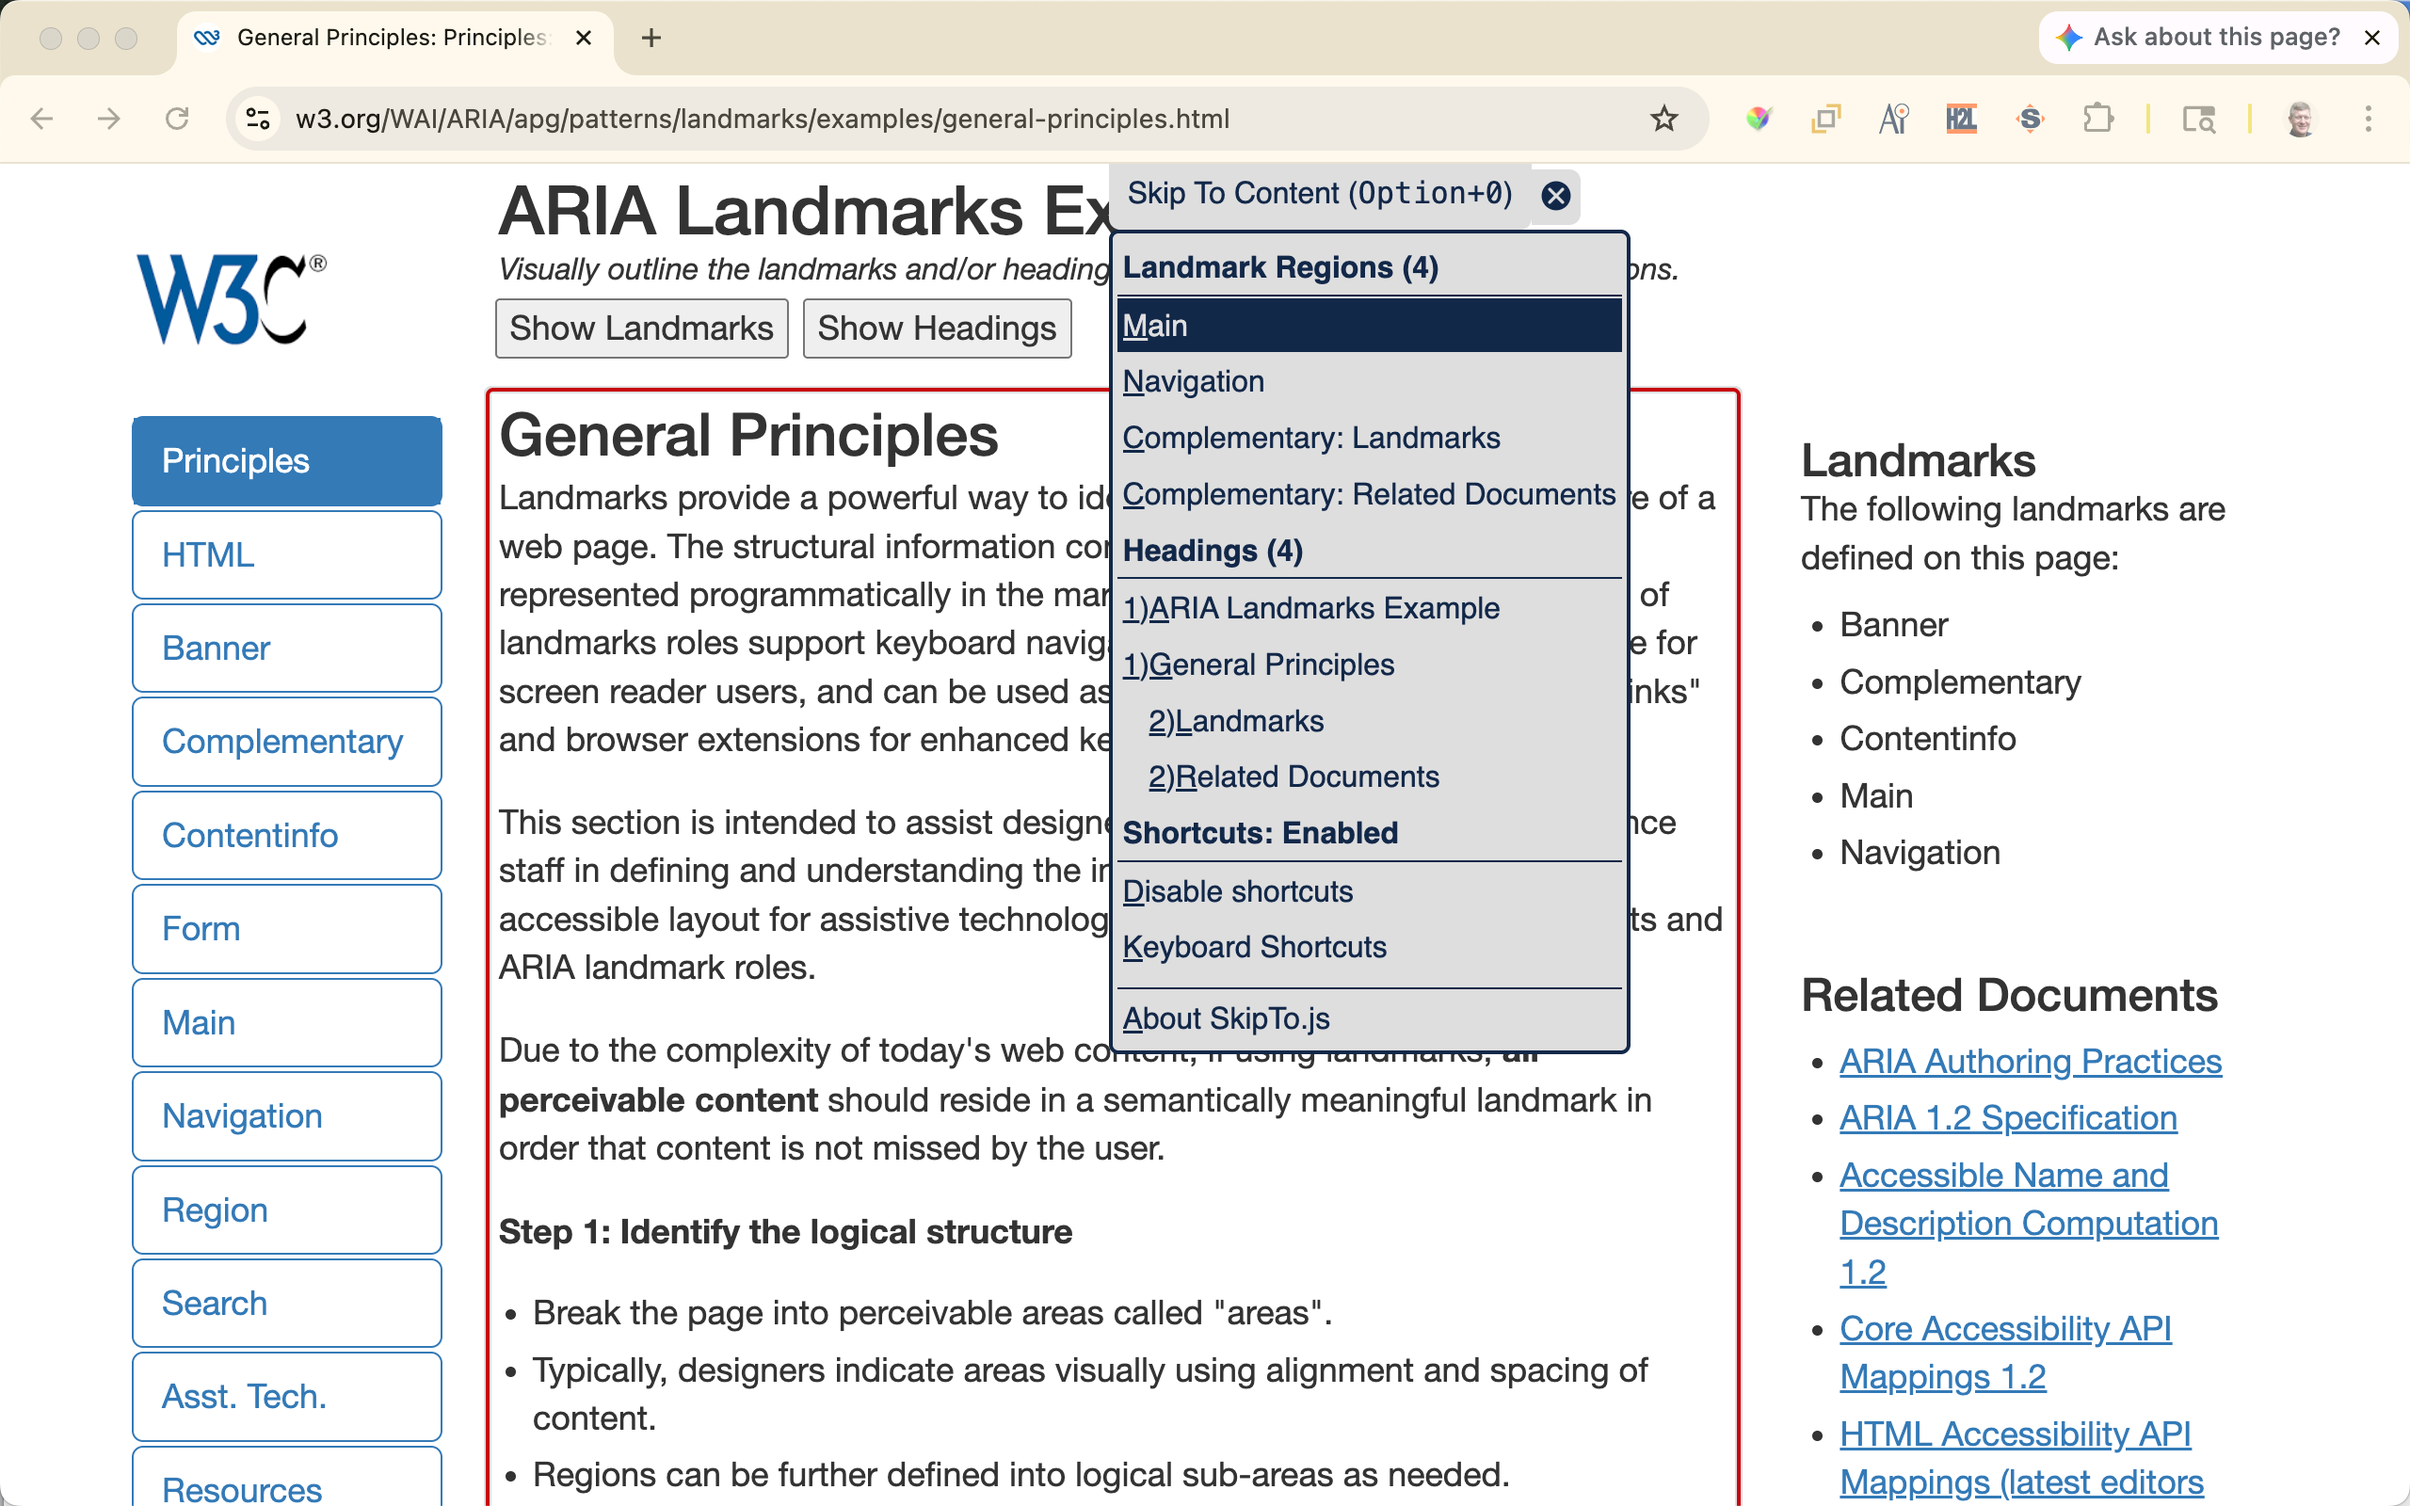
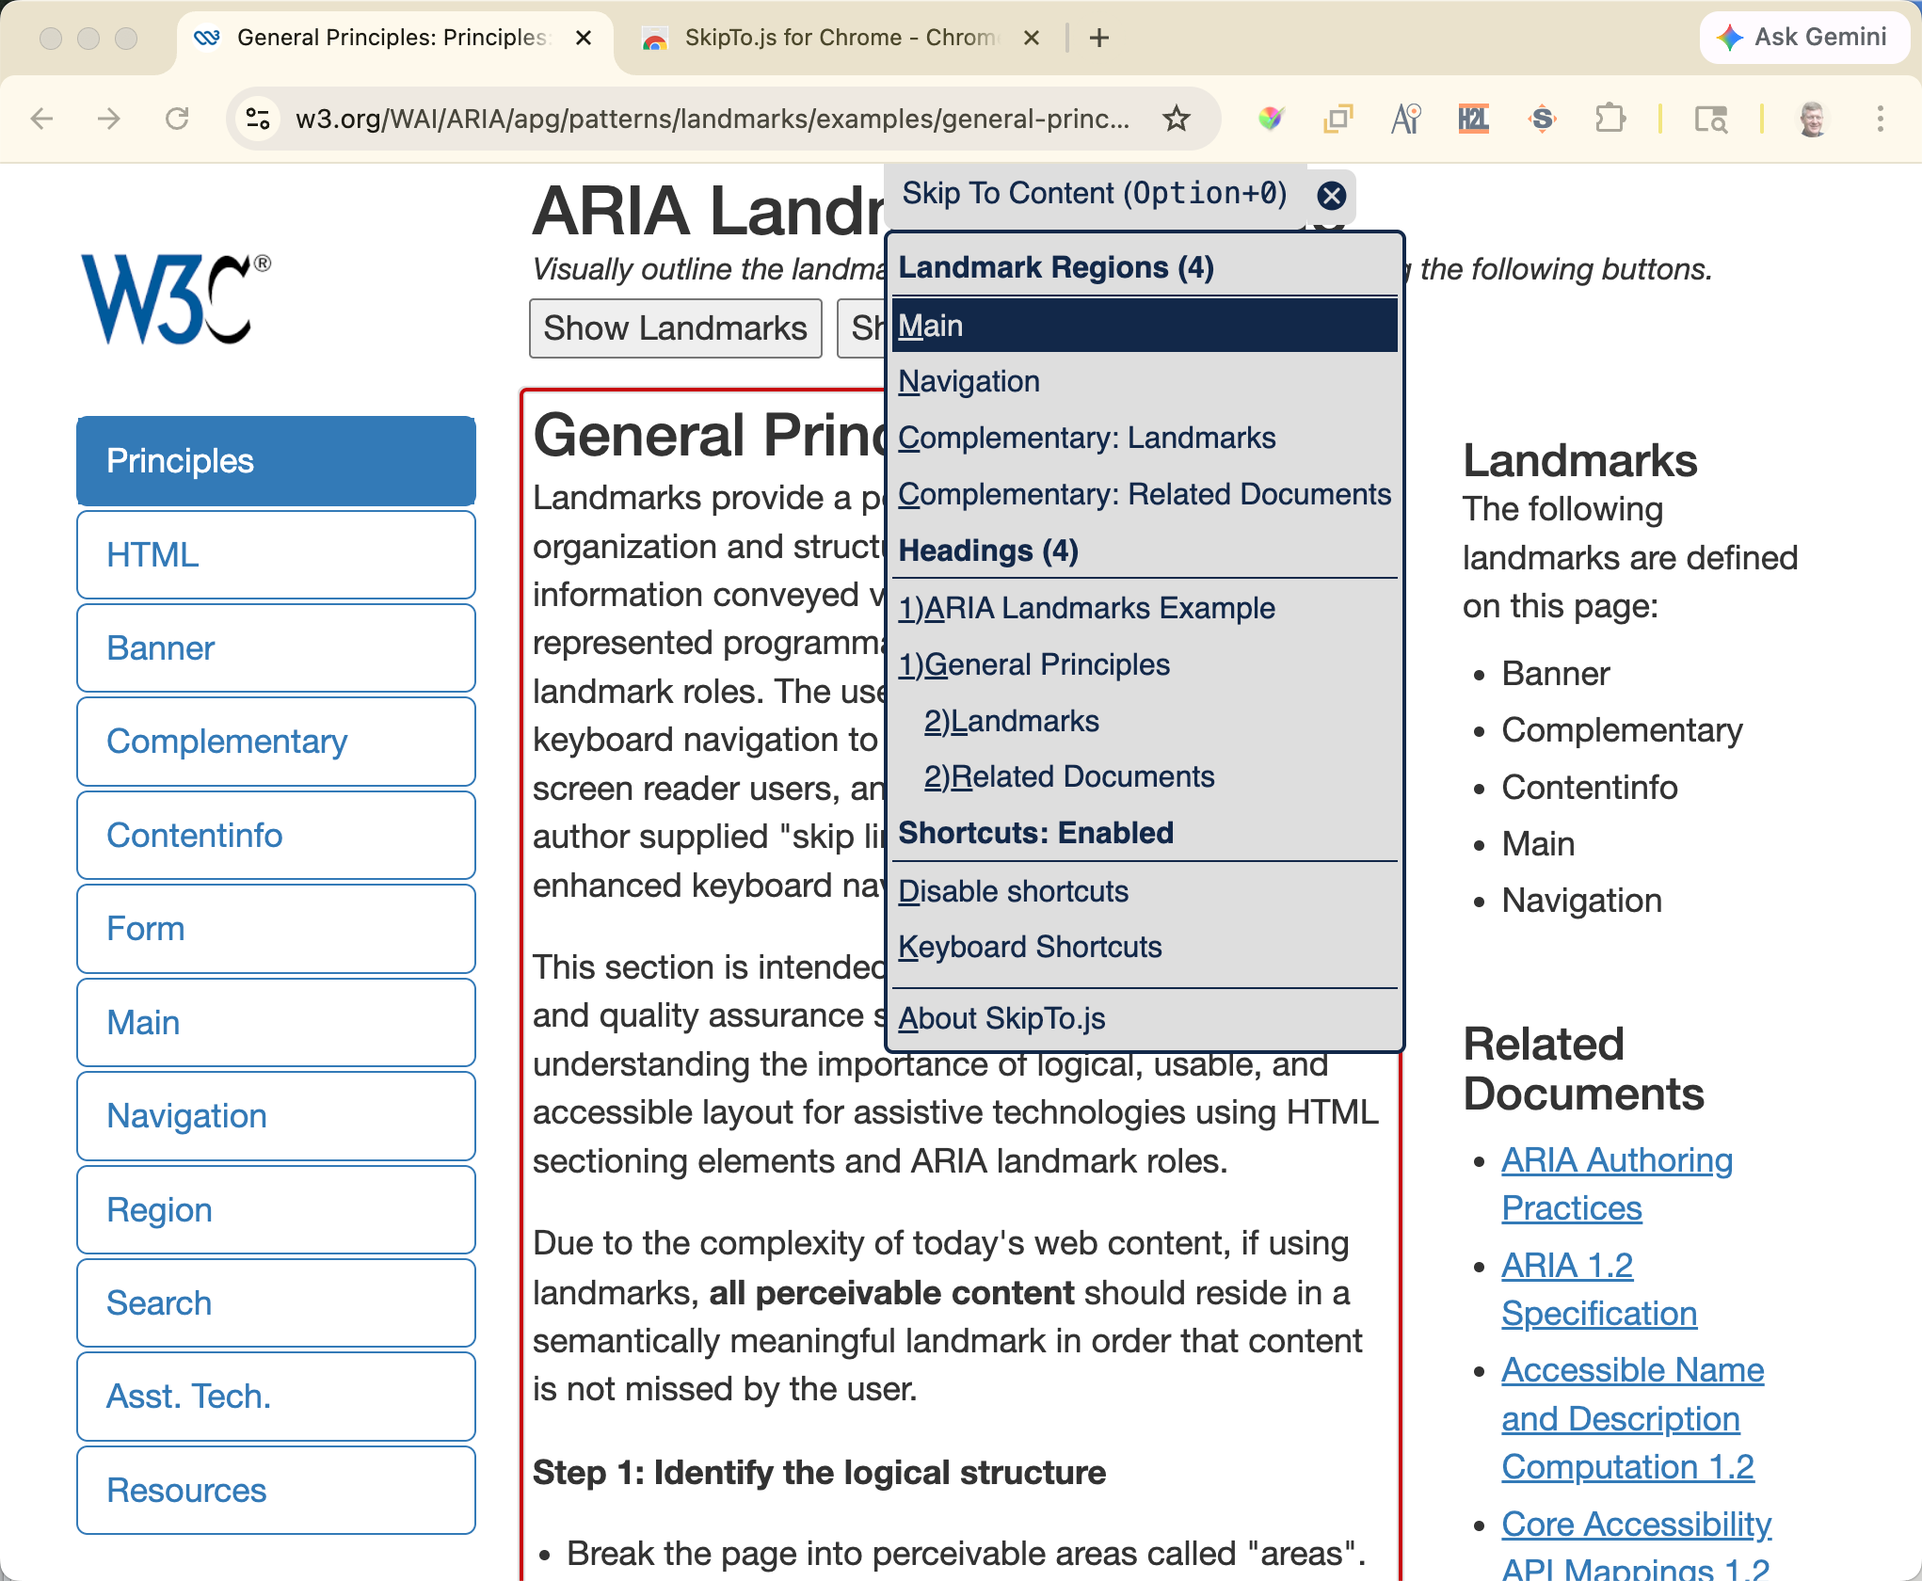
chore: Update branch with latest `update-aside-landmarks` changes and submodule updates

Changed region(s): [[0.0309, 0.0, 1.0, 1.0]]

diff --git a/ARIA/apg/patterns/landmarks/examples/at.html b/ARIA/apg/patterns/landmarks/examples/at.html
@@ -196,8 +196,9 @@ permalink: /ARIA/apg/patterns/landmarks/examples/at.html
             <section>
               <h2 id="skipto">SkipTo Landmarks &amp; Headings Browser Extension</h2>
 
-              <p>The SkipTo Landmarks &amp; Headings browser extension implements the <a href="https://www.w3.org/TR/UAAG/">User Agent Accessibility Guidelines 1.0</a> requirement <q><a href="https://www.w3.org/TR/UAAG/guidelines.html#tech-nav-structure">9.9 Allow Structured Navigation</a></q>. It does this by providing keyboard navigation to landmarks and headings on any web page.  The keyboard shortcut to open the "Skip To Content" menu is <kbd>alt</kbd> + <kbd>0</kbd> on Windows/Linux and <kbd>option</kbd> + <kbd>0</kbd> on Mac keyboards. In addition the following shortcut keys provide single key navigation to headings and landmarks.</p>
+              <p>The SkipTo Landmarks &amp; Headings browser extension implements the <a href="https://www.w3.org/TR/UAAG/">User Agent Accessibility Guidelines 1.0</a> requirement <q><a href="https://www.w3.org/TR/UAAG/guidelines.html#tech-nav-structure">9.9 Allow Structured Navigation</a></q>. It does this by providing keyboard navigation to landmarks and headings on any web page.  The keyboard shortcut to open the "Skip To Content" menu is <kbd>alt</kbd> + <kbd>0</kbd> on Windows/Linux and <kbd>option</kbd> + <kbd>0</kbd> on Mac keyboards. </p>
 
+              <p>The following table identifies additional single key shortcuts to navigation to headings and landmarks.  These single key commands are similar to the navigation commands found in screen readers.</p>
 
 
               <table class="table table-striped table-hover" aria-labelledby="skipto">
@@ -265,6 +266,7 @@ permalink: /ARIA/apg/patterns/landmarks/examples/at.html
 
               </table>
 
+              <p>Links to extensions:</p>
               <ul style="margin-top: 1em">
                 <li><a href="https://chromewebstore.google.com/detail/skiptojs-for-chrome/mgmnhfooeifhicajoeoamlchoadbioof">SkipTo.js for Chrome</a></li>
                 <li><a href="https://microsoftedge.microsoft.com/addons/detail/skiptojs-for-microsoft-e/ljimnmfdebledgndinpmilpbmkfamicg">SkipTo.js for Edge</a></li>
@@ -314,7 +316,7 @@ permalink: /ARIA/apg/patterns/landmarks/examples/at.html
             W3C ARIA Authoring Practices Task Force
           </div>
           <div class="col-xs-12 col-sm-3 col-md-3 col-lg-2">
-            Copyright 2023
+            Copyright 2026
           </div>
         </footer>
       </div>
